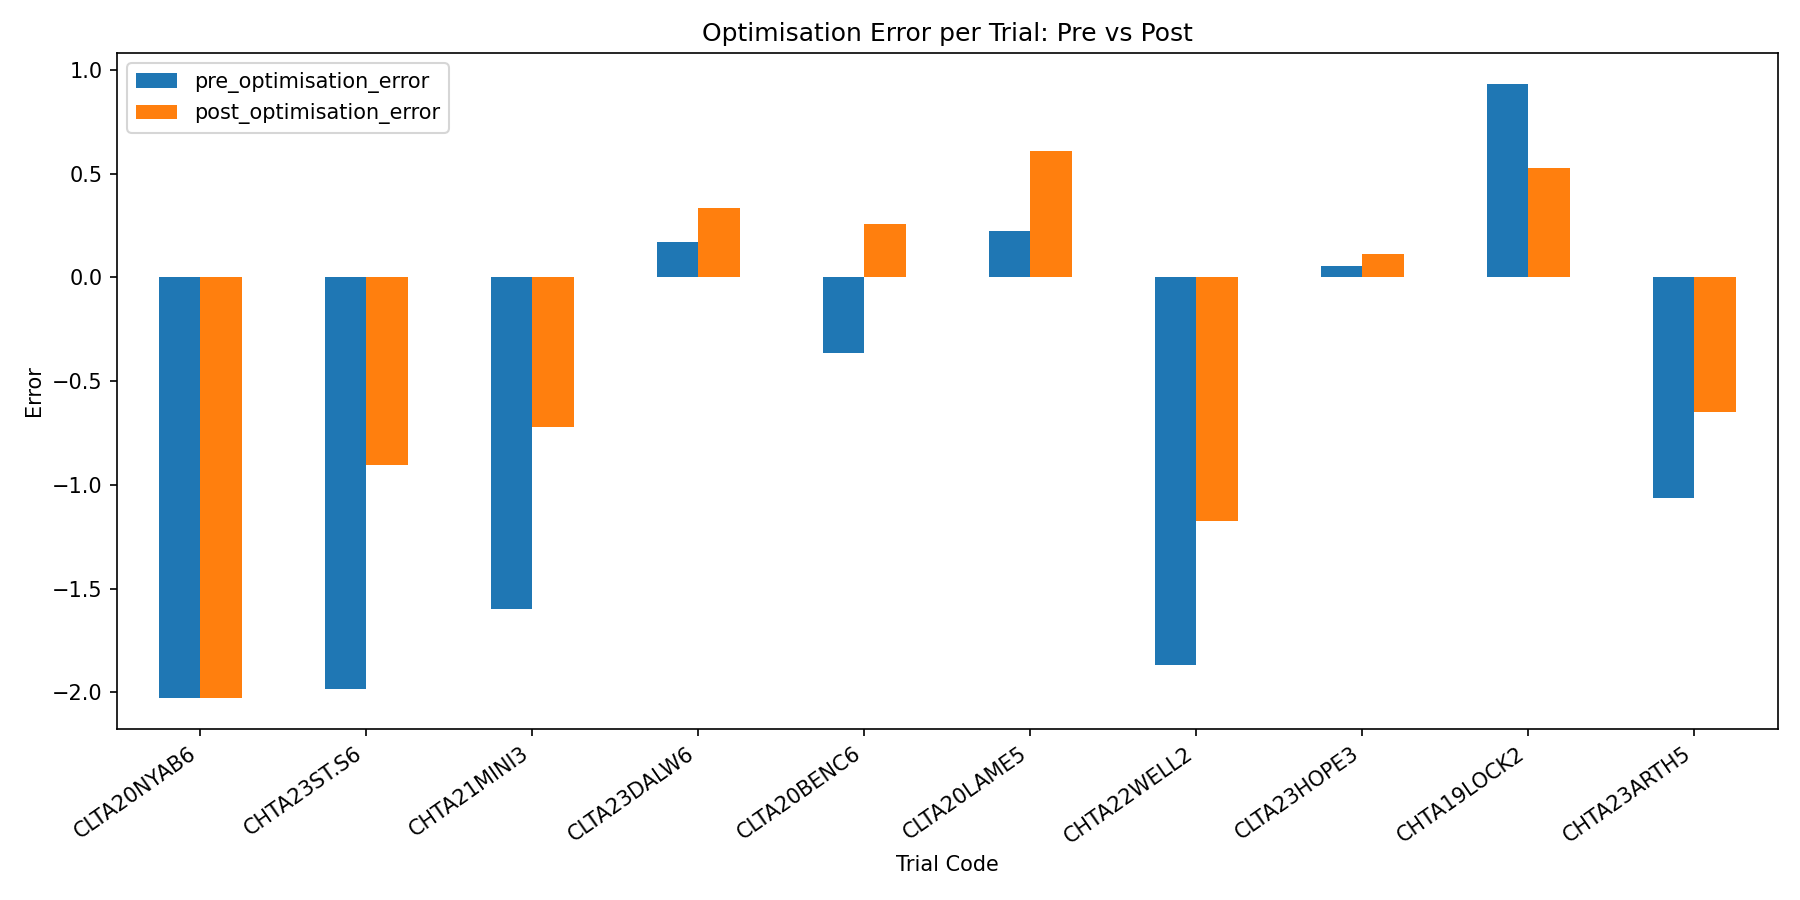
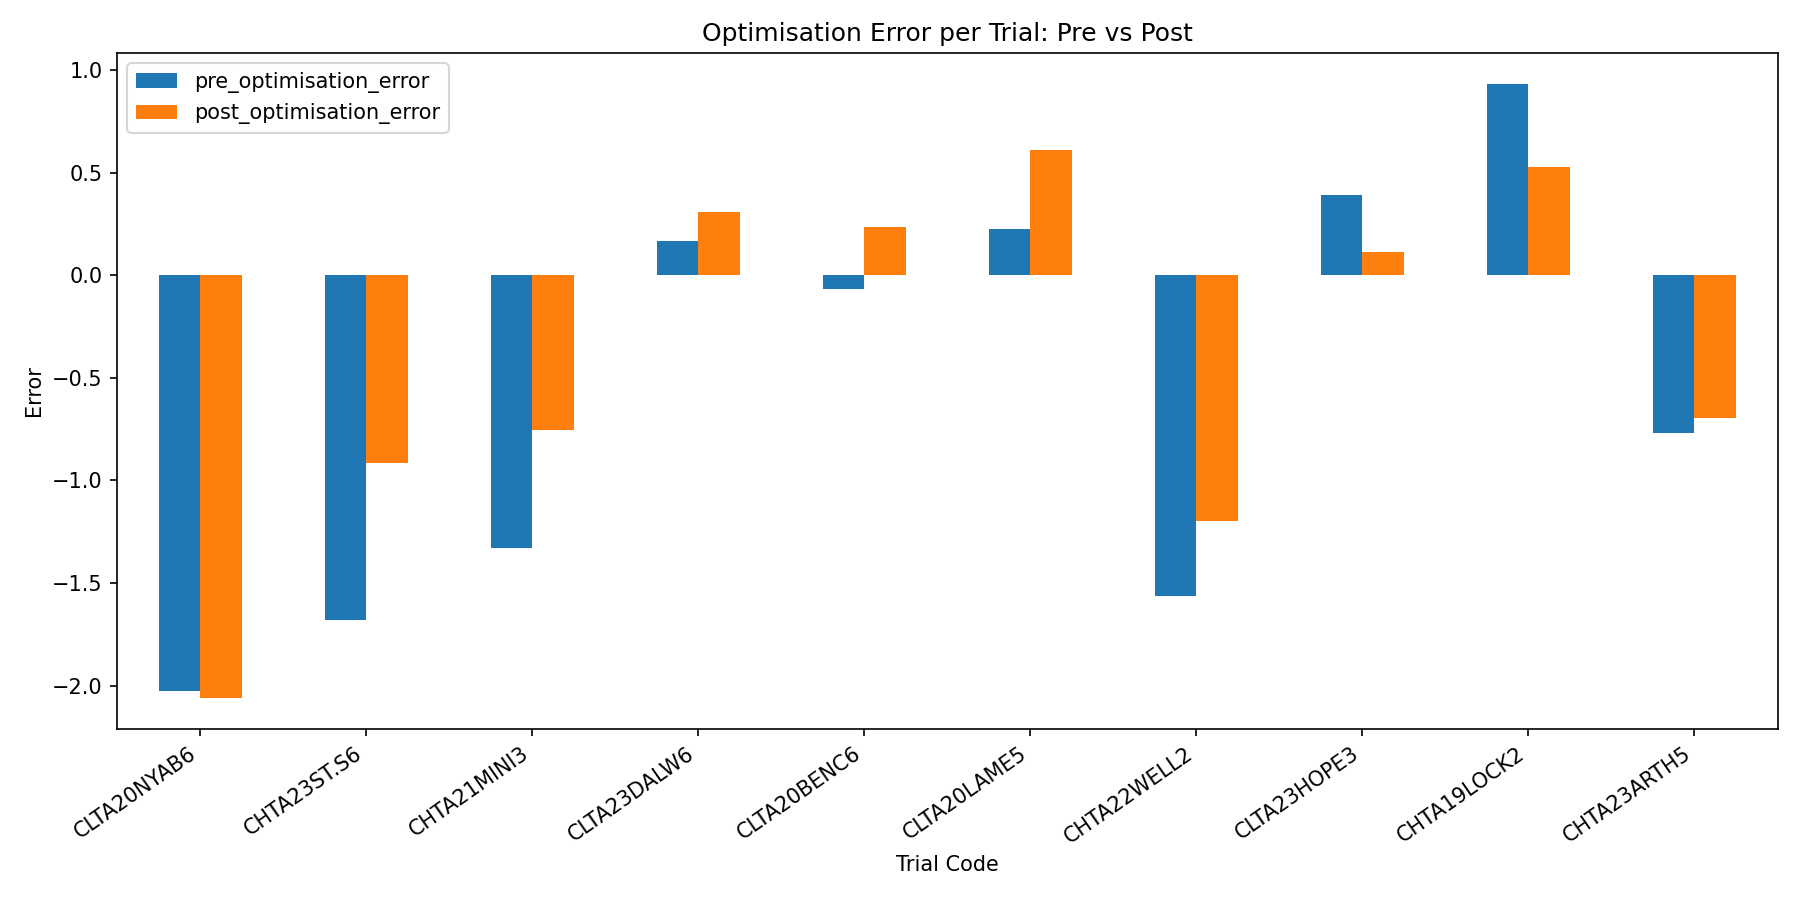
eh

diff --git a/NVTAnalysis/compare_pre_and_post_calibration.py b/NVTAnalysis/compare_pre_and_post_calibration.py
@@ -435,9 +435,13 @@ def test():
     priors = np.array([0.08092954, 0.42068518, 0.19754289, 0.26959304, 0.25406048])
     priors = np.array( [0.08092954, 0.42068518, 0.19754289, 0.26959304, 0.25406048])
     priors = np.array([0.08173807, 0.35702345, 0.17887401, 0.24621461, 0.25752345])
-    priors = np.array([0.04112718, 0.40682116, 0.17449948, 0.27125969, 0.29341721])
-    priors = np.array([0.09095077, 0.33781626, 0.18560119, 0.29296343, 0.28275964])
+    # priors = np.array([0.04112718, 0.40682116, 0.17449948, 0.27125969, 0.29341721])
+    # priors = np.array([0.07485001, 0.33781626, 0.22075773, 0.29296343, 0.25544657])
+    # priors = np.array([0.09095077, 0.33781626, 0.18560119, 0.29296343, 0.28275964])
     # print([priors])
+    priors = np.array([0.09095077, 0.33781626, 0.18560119, 0.29296343, 0.28275964])
+    # priors = np.array([0.06772111, 0.387945, 0.18392193, 0.27370856, 0.29341721])
+    # priors = np.array([0.09206228, 0.38092474, 0.1480234, 0.28456559, 0.20515294])
     for query in queries:
         compare_pre_and_post_calibration(priors, query, experiment_df)
     # compare_pre_and_post_calibration(priors, queries[3], experiment_df)

diff --git a/NVTAnalysis/calibrate_priors2.py b/NVTAnalysis/calibrate_priors2.py
@@ -49,7 +49,7 @@ def test():
     tmp_dir = data_dir
     out_dir = data_dir
     experiment_df, queries = get_n_representative_sites(tmp_dir=tmp_dir, out_dir=out_dir)
-    calibrate_priors2(queries[6], experiment_df)
+    calibrate_priors2(queries[5], experiment_df)
 
 if __name__ == '__main__':
     test()
